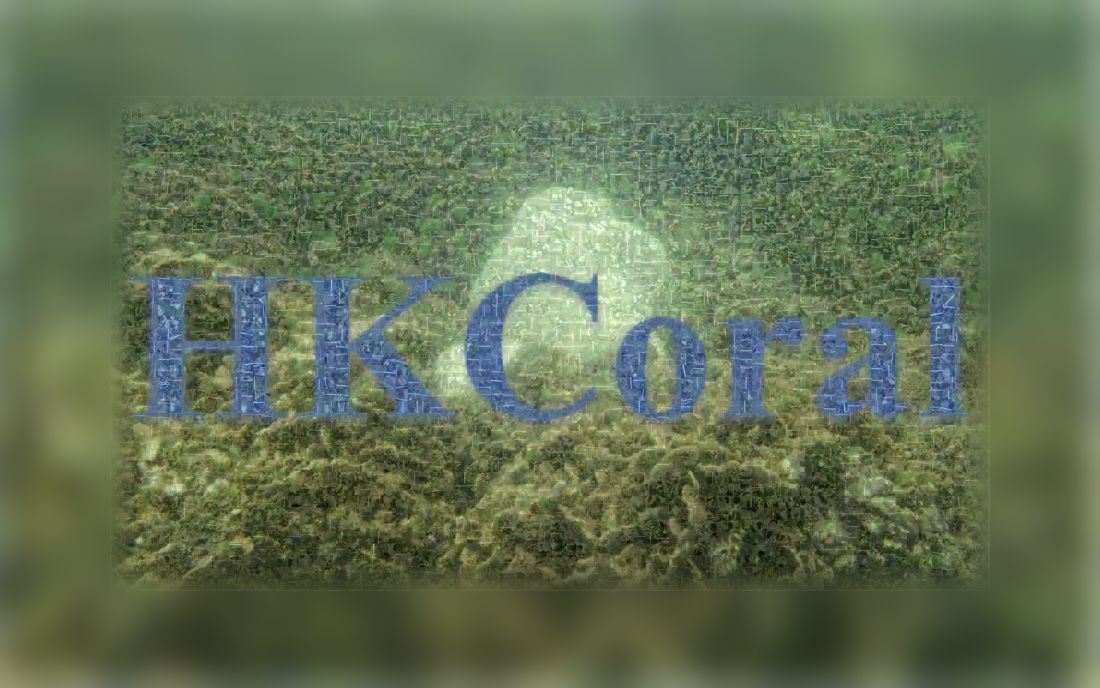
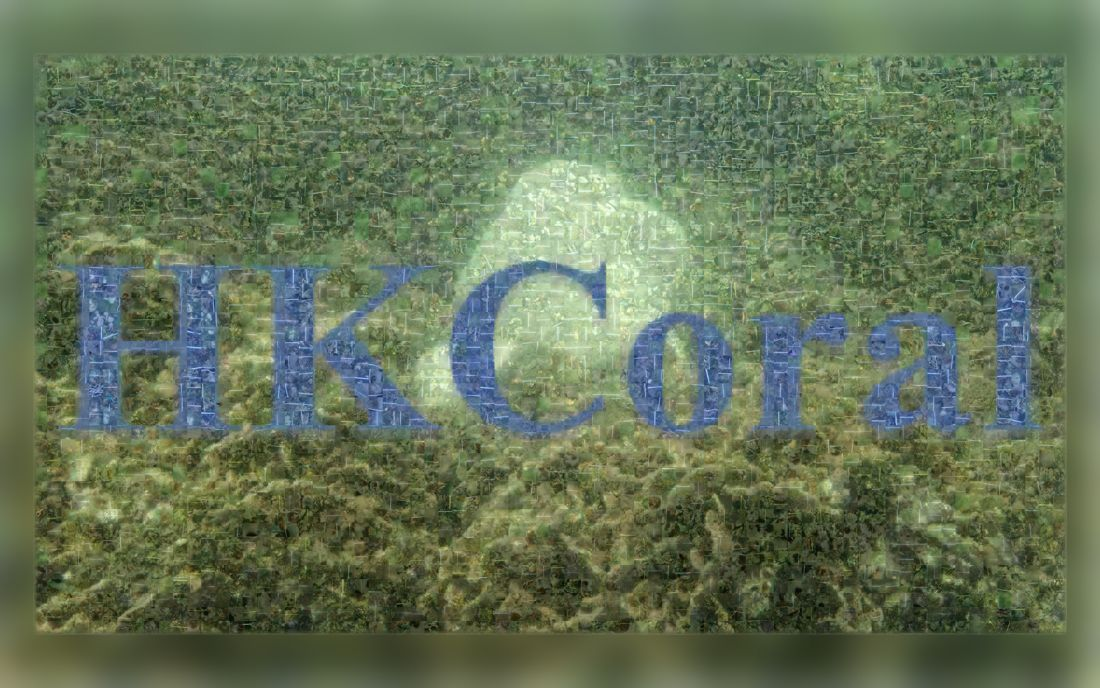
Reduce HKCoral thumbnail zoom-out, keep whole teaser visible

diff --git a/lab-resources/index.html b/lab-resources/index.html
@@ -10,22 +10,22 @@
 <div class="direction-jumps resource-jumps" aria-label="Jump to a section"><a href="#datasets"><span>10</span>Datasets</a><a href="#tools"><span>01</span>Tools</a><a href="#facilities"><span>—</span>Facilities</a><a href="collaborators.html"><span>↗</span>Collaborators</a></div>
 
 <div class="resource-section" id="datasets"><div class="section-heading"><div><p class="eyebrow">DATASETS &amp; BENCHMARKS</p><h2>Datasets</h2></div><p>Coral reef datasets first, then wider marine life. Newest first within each group.</p></div>
-<div class="resource-group"><h3 id="coral">Coral reefs<small>4 datasets · 2023–2026</small></h3><div class="rail" aria-label="Coral reefs, newest first"><article class="research-direction resource-row" id="dense-coralnet"><div class="rail-mark" aria-hidden="true"><span class="rail-yr">2026</span><span class="rail-venue">ICRS</span></div><div class="direction-visual"><a href="https://dense-coralnet.hkustvgd.com/" target="_blank" rel="noopener" aria-label="Open Dense-CoralNet project page"><span class="resource-media"><img src="assets/resources/dense-coralnet.jpg" alt="Top-down quadrat photo of a dense coral reef patch" loading="lazy" decoding="async"></span></a></div>
-<div class="direction-content"><div class="venue-line"><p class="eyebrow">International Coral Reef Symposium (ICRS) 2026</p><span class="badge">Oral · 15 min</span></div><h2><a href="https://dense-coralnet.hkustvgd.com/" target="_blank" rel="noopener">Dense-CoralNet</a></h2><p class="full-title">Large-scale coral reef imagery with dense semantic labels</p><p>Browse coral reef survey images online and open any one in the semantic segmentation viewer to inspect its dense labels.</p><dl class="stats"><div><dt>Images</dt><dd>272,690</dd></div></dl><ul class="direction-topics" aria-label="Tasks"><li>Semantic segmentation</li><li>Online browser</li></ul><a class="text-link" href="https://dense-coralnet.hkustvgd.com/" target="_blank" rel="noopener">Browse Dense-CoralNet <span aria-hidden="true">↗</span></a></div></article><article class="research-direction resource-row" id="coralscop"><div class="rail-mark" aria-hidden="true"><span class="rail-yr">2024</span><span class="rail-venue">CVPR</span></div><div class="direction-visual"><a href="https://coralscop.hkustvgd.com/" target="_blank" rel="noopener" aria-label="Open CoralSCOP project page"><span class="resource-media"><img src="assets/resources/coralscop.jpg" alt="CoralSCOP teaser figure showing coral segmentation results across many reef images" loading="lazy" decoding="async"></span></a></div>
-<div class="direction-content"><div class="venue-line"><p class="eyebrow">CVPR 2024</p><span class="badge">Highlight</span></div><h2><a href="https://coralscop.hkustvgd.com/" target="_blank" rel="noopener">CoralSCOP</a></h2><p class="full-title">Segment any COral Image on this Planet</p><p>The first foundation model for dense coral reef segmentation. It outlines individual corals at several levels of detail, from coral versus non-coral to growth form and genus, and powers the CoralSCOP-LAT tool.</p><dl class="stats"><div><dt>Training masks</dt><dd>1.3M</dd></div><div><dt>Levels of detail</dt><dd>3</dd></div></dl><ul class="direction-topics" aria-label="Tasks"><li>Foundation model</li><li>Coral segmentation</li></ul><a class="text-link" href="https://coralscop.hkustvgd.com/" target="_blank" rel="noopener">Visit CoralSCOP <span aria-hidden="true">↗</span></a></div></article><article class="research-direction resource-row" id="hkcoral"><div class="rail-mark same" aria-hidden="true"><span class="rail-venue">IEEE JOE</span></div><div class="direction-visual"><a href="https://hkcoral.hkustvgd.com/" target="_blank" rel="noopener" aria-label="Open HKCoral project page"><span class="resource-media"><img src="assets/resources/hkcoral.jpg" alt="HKCoral title over an underwater coral reef scene" loading="lazy" decoding="async"></span></a></div>
-<div class="direction-content"><div class="venue-line"><p class="eyebrow">IEEE Journal of Oceanic Engineering 2024</p></div><h2><a href="https://hkcoral.hkustvgd.com/" target="_blank" rel="noopener">HKCoral</a></h2><p class="full-title">Benchmark for Dense Coral Growth Form Segmentation in the Wild</p><p>Coral images taken in real Hong Kong conditions: low visibility, motion blur, clutter and colour distortion. Every pixel is labelled by coral growth form, which helps models generalise to reefs they have not seen.</p><dl class="stats"><div><dt>Images</dt><dd>2,515</dd></div><div><dt>Growth forms</dt><dd>6</dd></div><div><dt>Methods benchmarked</dt><dd>17</dd></div></dl><ul class="direction-topics" aria-label="Tasks"><li>Semantic segmentation</li><li>In-the-wild</li></ul><a class="text-link" href="https://hkcoral.hkustvgd.com/" target="_blank" rel="noopener">Visit HKCoral <span aria-hidden="true">↗</span></a></div></article><article class="research-direction resource-row" id="coralvos"><div class="rail-mark" aria-hidden="true"><span class="rail-yr">2023</span><span class="rail-venue">arXiv</span></div><div class="direction-visual"><a href="https://coralvos.hkustvgd.com/" target="_blank" rel="noopener" aria-label="Open CoralVOS project page"><span class="resource-media"><img src="assets/resources/coralvos.jpg" alt="CoralVOS title over a grid of video frames with coral masks in red" loading="lazy" decoding="async"></span></a></div>
+<div class="resource-group"><h3 id="coral">Coral reefs<small>4 datasets · 2023–2026</small></h3><div class="rail" aria-label="Coral reefs, newest first"><article class="research-direction resource-row" id="dense-coralnet"><div class="rail-mark" aria-hidden="true"><span class="rail-yr">2026</span><span class="rail-venue">ICRS</span></div><div class="direction-visual"><a href="https://dense-coralnet.hkustvgd.com/" target="_blank" rel="noopener" aria-label="Open Dense-CoralNet project page"><span class="resource-media"><img src="assets/resources/dense-coralnet.jpg?v=3" alt="Top-down quadrat photo of a dense coral reef patch" loading="lazy" decoding="async"></span></a></div>
+<div class="direction-content"><div class="venue-line"><p class="eyebrow">International Coral Reef Symposium (ICRS) 2026</p><span class="badge">Oral · 15 min</span></div><h2><a href="https://dense-coralnet.hkustvgd.com/" target="_blank" rel="noopener">Dense-CoralNet</a></h2><p class="full-title">Large-scale coral reef imagery with dense semantic labels</p><p>Browse coral reef survey images online and open any one in the semantic segmentation viewer to inspect its dense labels.</p><dl class="stats"><div><dt>Images</dt><dd>272,690</dd></div></dl><ul class="direction-topics" aria-label="Tasks"><li>Semantic segmentation</li><li>Online browser</li></ul><a class="text-link" href="https://dense-coralnet.hkustvgd.com/" target="_blank" rel="noopener">Browse Dense-CoralNet <span aria-hidden="true">↗</span></a></div></article><article class="research-direction resource-row" id="coralscop"><div class="rail-mark" aria-hidden="true"><span class="rail-yr">2024</span><span class="rail-venue">CVPR</span></div><div class="direction-visual"><a href="https://coralscop.hkustvgd.com/" target="_blank" rel="noopener" aria-label="Open CoralSCOP project page"><span class="resource-media"><img src="assets/resources/coralscop.jpg?v=3" alt="CoralSCOP teaser figure showing coral segmentation results across many reef images" loading="lazy" decoding="async"></span></a></div>
+<div class="direction-content"><div class="venue-line"><p class="eyebrow">CVPR 2024</p><span class="badge">Highlight</span></div><h2><a href="https://coralscop.hkustvgd.com/" target="_blank" rel="noopener">CoralSCOP</a></h2><p class="full-title">Segment any COral Image on this Planet</p><p>The first foundation model for dense coral reef segmentation. It outlines individual corals at several levels of detail, from coral versus non-coral to growth form and genus, and powers the CoralSCOP-LAT tool.</p><dl class="stats"><div><dt>Training masks</dt><dd>1.3M</dd></div><div><dt>Levels of detail</dt><dd>3</dd></div></dl><ul class="direction-topics" aria-label="Tasks"><li>Foundation model</li><li>Coral segmentation</li></ul><a class="text-link" href="https://coralscop.hkustvgd.com/" target="_blank" rel="noopener">Visit CoralSCOP <span aria-hidden="true">↗</span></a></div></article><article class="research-direction resource-row" id="hkcoral"><div class="rail-mark same" aria-hidden="true"><span class="rail-venue">IEEE JOE</span></div><div class="direction-visual"><a href="https://hkcoral.hkustvgd.com/" target="_blank" rel="noopener" aria-label="Open HKCoral project page"><span class="resource-media"><img src="assets/resources/hkcoral.jpg?v=3" alt="HKCoral title over an underwater coral reef scene" loading="lazy" decoding="async"></span></a></div>
+<div class="direction-content"><div class="venue-line"><p class="eyebrow">IEEE Journal of Oceanic Engineering 2024</p></div><h2><a href="https://hkcoral.hkustvgd.com/" target="_blank" rel="noopener">HKCoral</a></h2><p class="full-title">Benchmark for Dense Coral Growth Form Segmentation in the Wild</p><p>Coral images taken in real Hong Kong conditions: low visibility, motion blur, clutter and colour distortion. Every pixel is labelled by coral growth form, which helps models generalise to reefs they have not seen.</p><dl class="stats"><div><dt>Images</dt><dd>2,515</dd></div><div><dt>Growth forms</dt><dd>6</dd></div><div><dt>Methods benchmarked</dt><dd>17</dd></div></dl><ul class="direction-topics" aria-label="Tasks"><li>Semantic segmentation</li><li>In-the-wild</li></ul><a class="text-link" href="https://hkcoral.hkustvgd.com/" target="_blank" rel="noopener">Visit HKCoral <span aria-hidden="true">↗</span></a></div></article><article class="research-direction resource-row" id="coralvos"><div class="rail-mark" aria-hidden="true"><span class="rail-yr">2023</span><span class="rail-venue">arXiv</span></div><div class="direction-visual"><a href="https://coralvos.hkustvgd.com/" target="_blank" rel="noopener" aria-label="Open CoralVOS project page"><span class="resource-media"><img src="assets/resources/coralvos.jpg?v=3" alt="CoralVOS title over a grid of video frames with coral masks in red" loading="lazy" decoding="async"></span></a></div>
 <div class="direction-content"><div class="venue-line"><p class="eyebrow">arXiv 2023</p></div><h2><a href="https://coralvos.hkustvgd.com/" target="_blank" rel="noopener">CoralVOS</a></h2><p class="full-title">Dataset and Benchmark for Coral Video Segmentation</p><p>The first dataset for dense coral video segmentation. Segmenting every frame, rather than sampling points, gives more reliable coral coverage estimates and better 3D reef reconstruction.</p><dl class="stats"><div><dt>VOS methods benchmarked</dt><dd>6</dd></div></dl><ul class="direction-topics" aria-label="Tasks"><li>Video object segmentation</li><li>3D reconstruction</li></ul><a class="text-link" href="https://coralvos.hkustvgd.com/" target="_blank" rel="noopener">Visit CoralVOS <span aria-hidden="true">↗</span></a></div></article></div></div>
-<div class="resource-group"><h3 id="marine">Marine life<small>6 datasets · 2023–2026</small></h3><div class="rail" aria-label="Marine life, newest first"><article class="research-direction resource-row" id="marineevt"><div class="rail-mark" aria-hidden="true"><span class="rail-yr">2026</span><span class="rail-venue">ECCV</span></div><div class="direction-visual"><a href="https://marineevt.hkustvgd.com/" target="_blank" rel="noopener" aria-label="Open MarineEVT project page"><span class="resource-media"><img src="assets/resources/marineevt.jpg" alt="MarineEVT overview figure with reasoning dimensions and the EVT-R1 tool-reasoning loop" loading="lazy" decoding="async"></span></a></div>
-<div class="direction-content"><div class="venue-line"><p class="eyebrow">ECCV 2026</p></div><h2><a href="https://marineevt.hkustvgd.com/" target="_blank" rel="noopener">MarineEVT</a></h2><p class="full-title">Advancing Event-Centric Marine Video Understanding via Visual Tool Reasoning</p><p>Underwater video events are sparse, brief and unevenly spread. MarineEVT annotates them as question-answer pairs covering semantic, contextual, spatial, temporal and causal reasoning, with the EVT-R1 tool-reasoning baseline.</p><dl class="stats"><div><dt>Video QA pairs</dt><dd>20K</dd></div><div><dt>Dimensions</dt><dd>20</dd></div></dl><ul class="direction-topics" aria-label="Tasks"><li>Video question answering</li><li>Event reasoning</li></ul><a class="text-link" href="https://marineevt.hkustvgd.com/" target="_blank" rel="noopener">Visit MarineEVT <span aria-hidden="true">↗</span></a></div></article><article class="research-direction resource-row" id="orca"><div class="rail-mark same" aria-hidden="true"><span class="rail-venue">WACV</span></div><div class="direction-visual"><a href="https://orca.hkustvgd.com/" target="_blank" rel="noopener" aria-label="Open ORCA project page"><span class="resource-media"><img src="assets/resources/orca.jpg" alt="ORCA title image: a breaching orca made from a mosaic of marine species photos" loading="lazy" decoding="async"></span></a></div>
-<div class="direction-content"><div class="venue-line"><p class="eyebrow">WACV 2026</p><span class="badge">Oral</span></div><h2><a href="https://orca.hkustvgd.com/" target="_blank" rel="noopener">ORCA</a></h2><p class="full-title">Object Recognition and Comprehension for Archiving Marine Species</p><p>A species-level benchmark that pairs bounding boxes with instance-level, expert-verified captions for detection, image grounding and captioning of marine life.</p><dl class="stats"><div><dt>Images</dt><dd>14,647</dd></div><div><dt>Species</dt><dd>478</dd></div><div><dt>Boxes</dt><dd>42,217</dd></div></dl><ul class="direction-topics" aria-label="Tasks"><li>Detection</li><li>Grounding</li><li>Captioning</li></ul><a class="text-link" href="https://orca.hkustvgd.com/" target="_blank" rel="noopener">Visit ORCA <span aria-hidden="true">↗</span></a></div></article><article class="research-direction resource-row" id="marineeval"><div class="rail-mark same" aria-hidden="true"><span class="rail-venue">WACV</span></div><div class="direction-visual"><a href="https://marineeval.hkustvgd.com/" target="_blank" rel="noopener" aria-label="Open MarineEval project page"><span class="resource-media"><img src="assets/resources/marineeval.jpg" alt="Coral reef with a sea turtle, manta ray and reef fish" loading="lazy" decoding="async"></span></a></div>
-<div class="direction-content"><div class="venue-line"><p class="eyebrow">WACV 2026</p><span class="badge">Oral</span></div><h2><a href="https://marineeval.hkustvgd.com/" target="_blank" rel="noopener">MarineEval</a></h2><p class="full-title">Assessing the Marine Intelligence of Vision-Language Models</p><p>A visual question-answering benchmark that tests whether general vision-language models handle marine tasks, from species identification to conservation knowledge. Results are reported for 17 open and closed-source models.</p><dl class="stats"><div><dt>Questions</dt><dd>2,000</dd></div><div><dt>Dimensions</dt><dd>7</dd></div><div><dt>Sub-dimensions</dt><dd>20</dd></div></dl><ul class="direction-topics" aria-label="Tasks"><li>Visual question answering</li><li>VLM benchmark</li></ul><a class="text-link" href="https://marineeval.hkustvgd.com/" target="_blank" rel="noopener">Visit MarineEval <span aria-hidden="true">↗</span></a></div></article><article class="research-direction resource-row" id="msc"><div class="rail-mark" aria-hidden="true"><span class="rail-yr">2025</span><span class="rail-venue">ACM MM</span></div><div class="direction-visual"><a href="https://msc.hkustvgd.com/" target="_blank" rel="noopener" aria-label="Open MSC project page"><span class="resource-media"><img src="assets/resources/msc.jpg" alt="MSC annotation pipeline: manual mask annotations, video splitting, synthetic clip captions and expert captions" loading="lazy" decoding="async"></span></a></div>
-<div class="direction-content"><div class="venue-line"><p class="eyebrow">ACM Multimedia 2025 · Datasets</p></div><h2><a href="https://msc.hkustvgd.com/" target="_blank" rel="noopener">MSC</a></h2><p class="full-title">A Marine Wildlife Video Dataset with Grounded Segmentation and Clip-Level Captioning</p><p>Marine wildlife videos annotated as video, caption and segmentation-mask triplets for visual grounding, captioning and video generation. Splitting videos at scene changes captures more of what each clip shows.</p><ul class="direction-topics" aria-label="Tasks"><li>Video captioning</li><li>Grounded segmentation</li><li>Sample set released Apr 2026</li></ul><a class="text-link" href="https://msc.hkustvgd.com/" target="_blank" rel="noopener">Visit MSC <span aria-hidden="true">↗</span></a></div></article><article class="research-direction resource-row" id="marineinst"><div class="rail-mark" aria-hidden="true"><span class="rail-yr">2024</span><span class="rail-venue">ECCV</span></div><div class="direction-visual"><a href="https://marineinst.hkustvgd.com/" target="_blank" rel="noopener" aria-label="Open MarineInst project page"><span class="resource-media"><img src="assets/resources/marineinst.jpg" alt="MarineInst teaser figure showing instance masks and captions for many downstream marine tasks" loading="lazy" decoding="async"></span></a></div>
-<div class="direction-content"><div class="venue-line"><p class="eyebrow">ECCV 2024</p><span class="badge">Oral</span></div><h2><a href="https://marineinst.hkustvgd.com/" target="_blank" rel="noopener">MarineInst</a></h2><p class="full-title">A Foundation Model for Marine Image Analysis with Instance Visual Description</p><p>A marine foundation model that outputs an instance mask and a caption for each object, trained on MarineInst20M, the largest marine image dataset to date.</p><dl class="stats"><div><dt>Images</dt><dd>2.42M</dd></div><div><dt>Instance masks</dt><dd>19.2M</dd></div></dl><ul class="direction-topics" aria-label="Tasks"><li>Foundation model</li><li>Instance segmentation</li><li>Captioning</li></ul><a class="text-link" href="https://marineinst.hkustvgd.com/" target="_blank" rel="noopener">Visit MarineInst <span aria-hidden="true">↗</span></a></div></article><article class="research-direction resource-row" id="mvk"><div class="rail-mark" aria-hidden="true"><span class="rail-yr">2023</span><span class="rail-venue">MMM</span></div><div class="direction-visual"><a href="https://mvk.hkustvgd.com/" target="_blank" rel="noopener" aria-label="Open MVK project page"><span class="resource-media"><img src="assets/resources/mvk.jpg" alt="Grid of Marine Video Kit frames from dive sites, each with an automatic caption" loading="lazy" decoding="async"></span></a></div>
+<div class="resource-group"><h3 id="marine">Marine life<small>6 datasets · 2023–2026</small></h3><div class="rail" aria-label="Marine life, newest first"><article class="research-direction resource-row" id="marineevt"><div class="rail-mark" aria-hidden="true"><span class="rail-yr">2026</span><span class="rail-venue">ECCV</span></div><div class="direction-visual"><a href="https://marineevt.hkustvgd.com/" target="_blank" rel="noopener" aria-label="Open MarineEVT project page"><span class="resource-media"><img src="assets/resources/marineevt.jpg?v=3" alt="MarineEVT overview figure with reasoning dimensions and the EVT-R1 tool-reasoning loop" loading="lazy" decoding="async"></span></a></div>
+<div class="direction-content"><div class="venue-line"><p class="eyebrow">ECCV 2026</p></div><h2><a href="https://marineevt.hkustvgd.com/" target="_blank" rel="noopener">MarineEVT</a></h2><p class="full-title">Advancing Event-Centric Marine Video Understanding via Visual Tool Reasoning</p><p>Underwater video events are sparse, brief and unevenly spread. MarineEVT annotates them as question-answer pairs covering semantic, contextual, spatial, temporal and causal reasoning, with the EVT-R1 tool-reasoning baseline.</p><dl class="stats"><div><dt>Video QA pairs</dt><dd>20K</dd></div><div><dt>Dimensions</dt><dd>20</dd></div></dl><ul class="direction-topics" aria-label="Tasks"><li>Video question answering</li><li>Event reasoning</li></ul><a class="text-link" href="https://marineevt.hkustvgd.com/" target="_blank" rel="noopener">Visit MarineEVT <span aria-hidden="true">↗</span></a></div></article><article class="research-direction resource-row" id="orca"><div class="rail-mark same" aria-hidden="true"><span class="rail-venue">WACV</span></div><div class="direction-visual"><a href="https://orca.hkustvgd.com/" target="_blank" rel="noopener" aria-label="Open ORCA project page"><span class="resource-media"><img src="assets/resources/orca.jpg?v=3" alt="ORCA title image: a breaching orca made from a mosaic of marine species photos" loading="lazy" decoding="async"></span></a></div>
+<div class="direction-content"><div class="venue-line"><p class="eyebrow">WACV 2026</p><span class="badge">Oral</span></div><h2><a href="https://orca.hkustvgd.com/" target="_blank" rel="noopener">ORCA</a></h2><p class="full-title">Object Recognition and Comprehension for Archiving Marine Species</p><p>A species-level benchmark that pairs bounding boxes with instance-level, expert-verified captions for detection, image grounding and captioning of marine life.</p><dl class="stats"><div><dt>Images</dt><dd>14,647</dd></div><div><dt>Species</dt><dd>478</dd></div><div><dt>Boxes</dt><dd>42,217</dd></div></dl><ul class="direction-topics" aria-label="Tasks"><li>Detection</li><li>Grounding</li><li>Captioning</li></ul><a class="text-link" href="https://orca.hkustvgd.com/" target="_blank" rel="noopener">Visit ORCA <span aria-hidden="true">↗</span></a></div></article><article class="research-direction resource-row" id="marineeval"><div class="rail-mark same" aria-hidden="true"><span class="rail-venue">WACV</span></div><div class="direction-visual"><a href="https://marineeval.hkustvgd.com/" target="_blank" rel="noopener" aria-label="Open MarineEval project page"><span class="resource-media"><img src="assets/resources/marineeval.jpg?v=3" alt="Coral reef with a sea turtle, manta ray and reef fish" loading="lazy" decoding="async"></span></a></div>
+<div class="direction-content"><div class="venue-line"><p class="eyebrow">WACV 2026</p><span class="badge">Oral</span></div><h2><a href="https://marineeval.hkustvgd.com/" target="_blank" rel="noopener">MarineEval</a></h2><p class="full-title">Assessing the Marine Intelligence of Vision-Language Models</p><p>A visual question-answering benchmark that tests whether general vision-language models handle marine tasks, from species identification to conservation knowledge. Results are reported for 17 open and closed-source models.</p><dl class="stats"><div><dt>Questions</dt><dd>2,000</dd></div><div><dt>Dimensions</dt><dd>7</dd></div><div><dt>Sub-dimensions</dt><dd>20</dd></div></dl><ul class="direction-topics" aria-label="Tasks"><li>Visual question answering</li><li>VLM benchmark</li></ul><a class="text-link" href="https://marineeval.hkustvgd.com/" target="_blank" rel="noopener">Visit MarineEval <span aria-hidden="true">↗</span></a></div></article><article class="research-direction resource-row" id="msc"><div class="rail-mark" aria-hidden="true"><span class="rail-yr">2025</span><span class="rail-venue">ACM MM</span></div><div class="direction-visual"><a href="https://msc.hkustvgd.com/" target="_blank" rel="noopener" aria-label="Open MSC project page"><span class="resource-media"><img src="assets/resources/msc.jpg?v=3" alt="MSC annotation pipeline: manual mask annotations, video splitting, synthetic clip captions and expert captions" loading="lazy" decoding="async"></span></a></div>
+<div class="direction-content"><div class="venue-line"><p class="eyebrow">ACM Multimedia 2025 · Datasets</p></div><h2><a href="https://msc.hkustvgd.com/" target="_blank" rel="noopener">MSC</a></h2><p class="full-title">A Marine Wildlife Video Dataset with Grounded Segmentation and Clip-Level Captioning</p><p>Marine wildlife videos annotated as video, caption and segmentation-mask triplets for visual grounding, captioning and video generation. Splitting videos at scene changes captures more of what each clip shows.</p><ul class="direction-topics" aria-label="Tasks"><li>Video captioning</li><li>Grounded segmentation</li><li>Sample set released Apr 2026</li></ul><a class="text-link" href="https://msc.hkustvgd.com/" target="_blank" rel="noopener">Visit MSC <span aria-hidden="true">↗</span></a></div></article><article class="research-direction resource-row" id="marineinst"><div class="rail-mark" aria-hidden="true"><span class="rail-yr">2024</span><span class="rail-venue">ECCV</span></div><div class="direction-visual"><a href="https://marineinst.hkustvgd.com/" target="_blank" rel="noopener" aria-label="Open MarineInst project page"><span class="resource-media"><img src="assets/resources/marineinst.jpg?v=3" alt="MarineInst teaser figure showing instance masks and captions for many downstream marine tasks" loading="lazy" decoding="async"></span></a></div>
+<div class="direction-content"><div class="venue-line"><p class="eyebrow">ECCV 2024</p><span class="badge">Oral</span></div><h2><a href="https://marineinst.hkustvgd.com/" target="_blank" rel="noopener">MarineInst</a></h2><p class="full-title">A Foundation Model for Marine Image Analysis with Instance Visual Description</p><p>A marine foundation model that outputs an instance mask and a caption for each object, trained on MarineInst20M, the largest marine image dataset to date.</p><dl class="stats"><div><dt>Images</dt><dd>2.42M</dd></div><div><dt>Instance masks</dt><dd>19.2M</dd></div></dl><ul class="direction-topics" aria-label="Tasks"><li>Foundation model</li><li>Instance segmentation</li><li>Captioning</li></ul><a class="text-link" href="https://marineinst.hkustvgd.com/" target="_blank" rel="noopener">Visit MarineInst <span aria-hidden="true">↗</span></a></div></article><article class="research-direction resource-row" id="mvk"><div class="rail-mark" aria-hidden="true"><span class="rail-yr">2023</span><span class="rail-venue">MMM</span></div><div class="direction-visual"><a href="https://mvk.hkustvgd.com/" target="_blank" rel="noopener" aria-label="Open MVK project page"><span class="resource-media"><img src="assets/resources/mvk.jpg?v=3" alt="Grid of Marine Video Kit frames from dive sites, each with an automatic caption" loading="lazy" decoding="async"></span></a></div>
 <div class="direction-content"><div class="venue-line"><p class="eyebrow">MMM 2023</p><span class="badge">Oral</span></div><h2><a href="https://mvk.hkustvgd.com/" target="_blank" rel="noopener">MVK</a></h2><p class="full-title">Marine Video Kit: A New Marine Video Dataset for Content-Based Analysis and Retrieval</p><p>Single-shot underwater videos from moving cameras, with metadata and keyframe descriptions for video retrieval. Used in a special session of the Video Browser Showdown 2023.</p><dl class="stats"><div><dt>Videos</dt><dd>1,379</dd></div><div><dt>Footage</dt><dd>12+ h</dd></div><div><dt>Countries &amp; regions</dt><dd>11</dd></div></dl><ul class="direction-topics" aria-label="Tasks"><li>Video retrieval</li><li>Known-item search</li></ul><a class="text-link" href="https://mvk.hkustvgd.com/" target="_blank" rel="noopener">Visit MVK <span aria-hidden="true">↗</span></a></div></article></div></div>
 </div>
 
 <div class="resource-section" id="tools"><div class="section-heading"><div><p class="eyebrow">SOFTWARE</p><h2>Tools</h2></div><p>Software built on our models, ready for biologists and survey teams.</p></div>
-<div class="resource-group"><article class="research-direction resource-row" id="coralscop-lat"><div class="direction-visual"><a href="https://coralscop-lat.hkustvgd.com/" target="_blank" rel="noopener" aria-label="Open CoralSCOP-LAT project page"><span class="resource-media"><img src="assets/resources/coralscop-lat.jpg" alt="CoralSCOP-LAT home illustration of a colourful coral reef" loading="lazy" decoding="async"></span></a></div>
+<div class="resource-group"><article class="research-direction resource-row" id="coralscop-lat"><div class="direction-visual"><a href="https://coralscop-lat.hkustvgd.com/" target="_blank" rel="noopener" aria-label="Open CoralSCOP-LAT project page"><span class="resource-media"><img src="assets/resources/coralscop-lat.jpg?v=3" alt="CoralSCOP-LAT home illustration of a colourful coral reef" loading="lazy" decoding="async"></span></a></div>
 <div class="direction-content"><div class="venue-line"><p class="eyebrow">Web app</p></div><h2><a href="https://coralscop-lat.hkustvgd.com/" target="_blank" rel="noopener">CoralSCOP-LAT</a></h2><p class="full-title">Coral labelling and analysis tool, powered by CoralSCOP</p><p>Upload reef photos and CoralSCOP segments every coral automatically. You then label, clean up and measure the results in the browser.</p><ul class="feature-list"><li>Automatic coral masks, filtered by size, confidence and overlap</li><li>Custom labels with per-image area statistics</li><li>Reference lines to convert pixels to real-world scale</li><li>Coral Watch colour chart for bleaching assessment</li><li>Save and reopen projects as a single file</li></ul><a class="text-link" href="https://coralscop-lat.hkustvgd.com/" target="_blank" rel="noopener">Open CoralSCOP-LAT <span aria-hidden="true">↗</span></a></div></article></div></div>
 
 <div class="resource-section" id="facilities"><div class="section-heading"><div><p class="eyebrow">FIELD &amp; LAB</p><h2>Facilities</h2></div><p>Field and lab equipment available to the center.</p></div>
